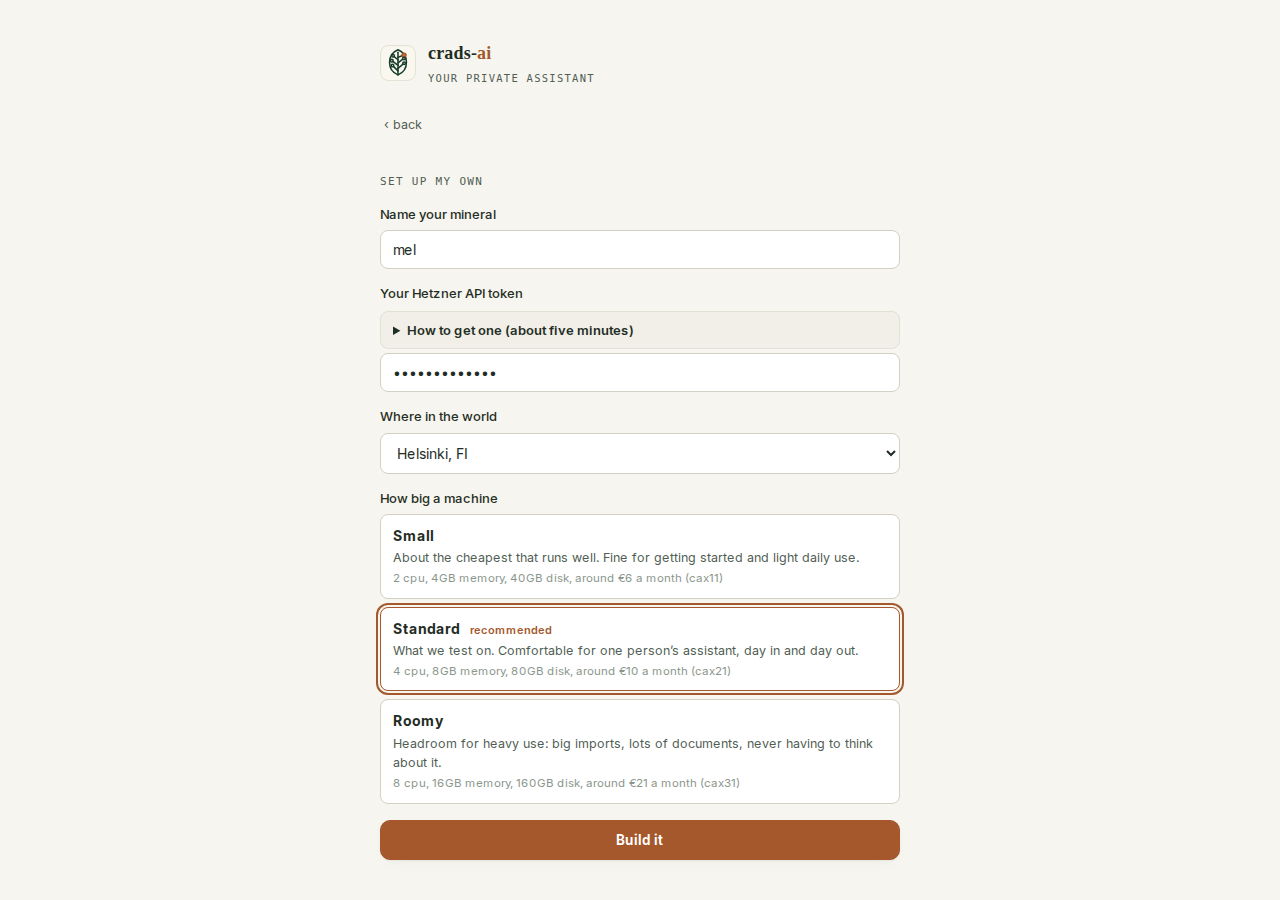
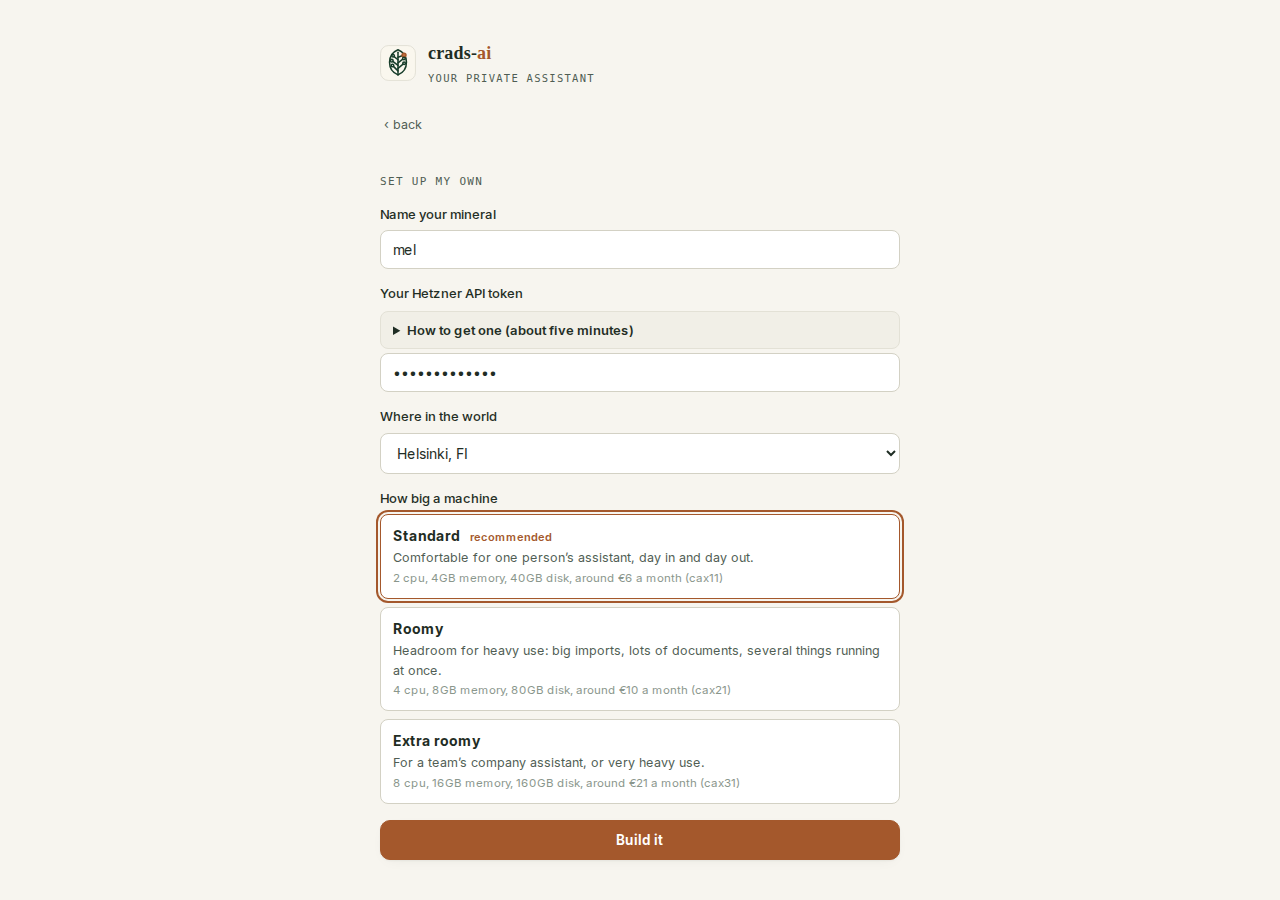
Docs republish: 4 GB Standard size cards; homepage setup screenshot and its markers follow
Published from ai-os hardening-loop (cb15af8 sizes, ec221d9 swap). First hour and
the Hetzner token page describe Standard 4 GB (recommended) / Roomy 8 GB / Extra
roomy 16 GB; fresh shots (21/21). Homepage door-catalogue.png replaced and its
three markers moved down ~1% to the new layout (measured from the pixels).

Changed region(s): [[0.2812, 0.6533, 0.7188, 0.8711], [0.2812, 0.56, 0.7188, 0.6222]]

diff --git a/docs/get-a-hetzner-api-token/index.html b/docs/get-a-hetzner-api-token/index.html
@@ -644,7 +644,7 @@
 <p>The token is the key to your hosting project. It stays on your computer, the app sends it only to Hetzner's own API, and you can revoke it at any time. Treat it like a password all the same.</p>
 <h2 id="1-make-a-hetzner-account">1. Make a Hetzner account<a class="anchor" href="#1-make-a-hetzner-account" aria-label="Link to this section">#</a></h2>
 <p>Go to <strong>console.hetzner.com</strong> and sign up with your email. Confirm the email, then add a payment method: the server is billed to you by Hetzner directly, and nothing is charged until a server actually exists.</p>
-<p>What it costs depends on the size and the location. The wizard picks Hetzner's Arm machines first, because they are the cheapest it sells with enough memory: about €6 a month for Small, €10.50 for Standard and €21 for Roomy (Hetzner's list prices on 13 October 2026). Arm is sold in Germany and Finland only. Where a location does not sell Arm, the wizard falls back to an Intel or AMD machine with the same memory, which costs more: roughly €19 to €70 a month in Germany and Finland, and more again in Singapore and the US. The wizard shows the real price for the location you pick before anything is built.</p>
+<p>What it costs depends on the size and the location. The wizard picks Hetzner's Arm machines first, because they are the cheapest it sells with enough memory: about €6 a month for Standard, €10.50 for Roomy and €21 for Extra roomy (Hetzner's list prices on 13 October 2026). Arm is sold in Germany and Finland only. Where a location does not sell Arm, the wizard falls back to an Intel or AMD machine with the same memory, which costs more: roughly €19 to €70 a month in Germany and Finland, and more again in Singapore and the US. The wizard shows the real price for the location you pick before anything is built.</p>
 <p>Hetzner sometimes asks new accounts to verify identity before they can create servers. That check is theirs, not ours; if it appears, complete it and come back. It can take from minutes to a day.</p>
 <h2 id="2-create-a-project">2. Create a project<a class="anchor" href="#2-create-a-project" aria-label="Link to this section">#</a></h2>
 <p>On the Cloud console's start screen choose <strong>New project</strong> and give it any name; &quot;my-brain&quot; is fine. If your account already shows a default project, that one works too. A project is just Hetzner's box for grouping servers, and your mineral will live inside whichever project the token belongs to.</p>

diff --git a/index.html b/index.html
@@ -576,7 +576,7 @@
       </li>
     </ol>
     <figure class="shot-figure reveal-on-scroll">
-      <span class="shot-frame"><img src="/lib/img/shots/door-catalogue.png" width="1280" height="900" alt="The setup wizard after the token check: a location list and three size cards with their real machines and monthly prices" loading="eager"><span class="shot-mark" style="left:29.69%;top:47.13%;width:40.63%;height:4.56%"><b>1</b></span><span class="shot-mark" style="left:29.69%;top:56.14%;width:40.63%;height:32.22%"><b>2</b></span><span class="shot-mark" style="left:29.69%;top:90.14%;width:40.63%;height:4.44%"><b>3</b></span></span>
+      <span class="shot-frame"><img src="/lib/img/shots/door-catalogue.png" width="1280" height="900" alt="The setup wizard after the token check: a location list and three size cards with their real machines and monthly prices" loading="eager"><span class="shot-mark" style="left:29.69%;top:48.11%;width:40.63%;height:4.56%"><b>1</b></span><span class="shot-mark" style="left:29.69%;top:57.11%;width:40.63%;height:32.22%"><b>2</b></span><span class="shot-mark" style="left:29.69%;top:91.11%;width:40.63%;height:4.44%"><b>3</b></span></span>
       <ol class="shot-legend"><li>Only the locations your account can actually build in.</li><li>Three plain sizes. The fine print names the real machine and its monthly price where you chose.</li><li>Build it. From here the wizard creates the server on your own account.</li></ol>
       <figcaption>Step 2 in the app. The prices are indicative: Hetzner's list prices on the day this was taken, in euros. The wizard reads the live list when you run it.</figcaption>
     </figure>

diff --git a/docs/first-hour/index.html b/docs/first-hour/index.html
@@ -704,9 +704,9 @@
 <p><strong>Where in the world</strong> lists the locations your hosting account actually offers, so pick whichever is closest to you or wherever you want your data to live.</p>
 <p><strong>How big a machine</strong> is three plain cards, each showing the real machine underneath and the host's real monthly price for it in your chosen location. The three mean the same thing at either company (4, 8 and 16 GB of memory):</p>
 <ul>
-<li><strong>Small</strong>: about the cheapest that runs well. Fine for getting started.</li>
-<li><strong>Standard</strong> (recommended): what we test on. Comfortable for one person's assistant, day in and day out.</li>
-<li><strong>Roomy</strong>: headroom for heavy use and never having to think about it.</li>
+<li><strong>Standard</strong> (recommended): comfortable for one person's assistant, day in and day out.</li>
+<li><strong>Roomy</strong>: headroom for heavy use: big imports, lots of documents, several things running at once.</li>
+<li><strong>Extra roomy</strong>: for a team's company assistant, or very heavy use.</li>
 </ul>
 <p>At Hetzner the wizard starts on an Arm machine, in a location that sells it on the day (Helsinki, when this page was written). Somewhere that does not sell Arm, or does not sell it in that size, the card falls back to an Intel or AMD machine with the same memory, at that machine's price; a size a location sells in no form at all says so and cannot be picked.</p>
 <p>Pick one and press <strong>Build it</strong>.</p>
